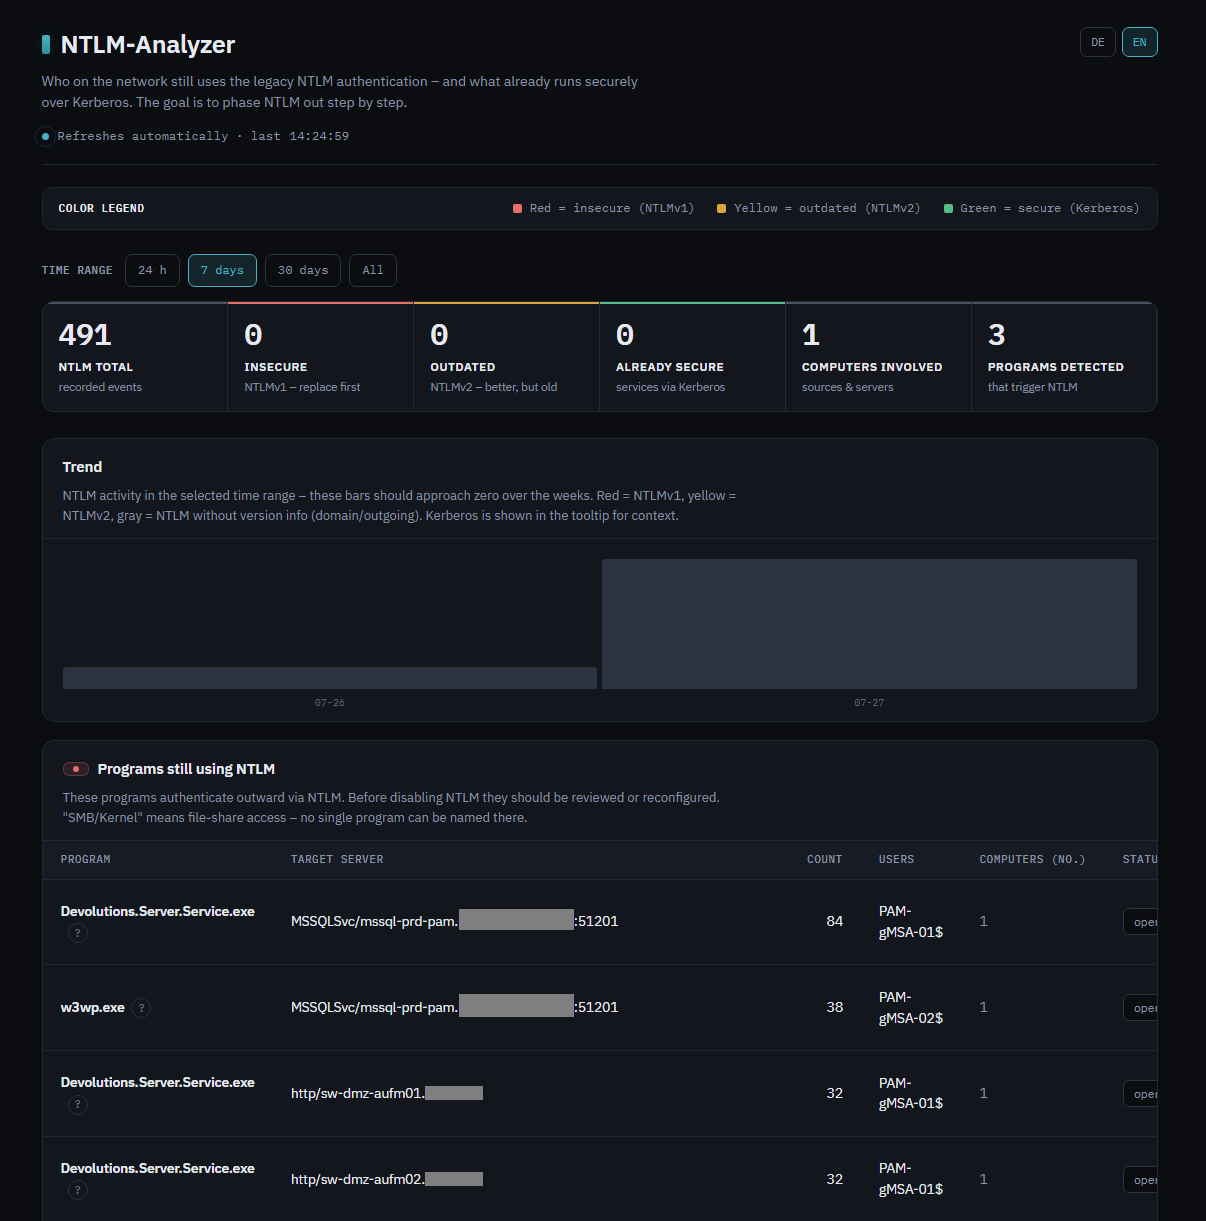
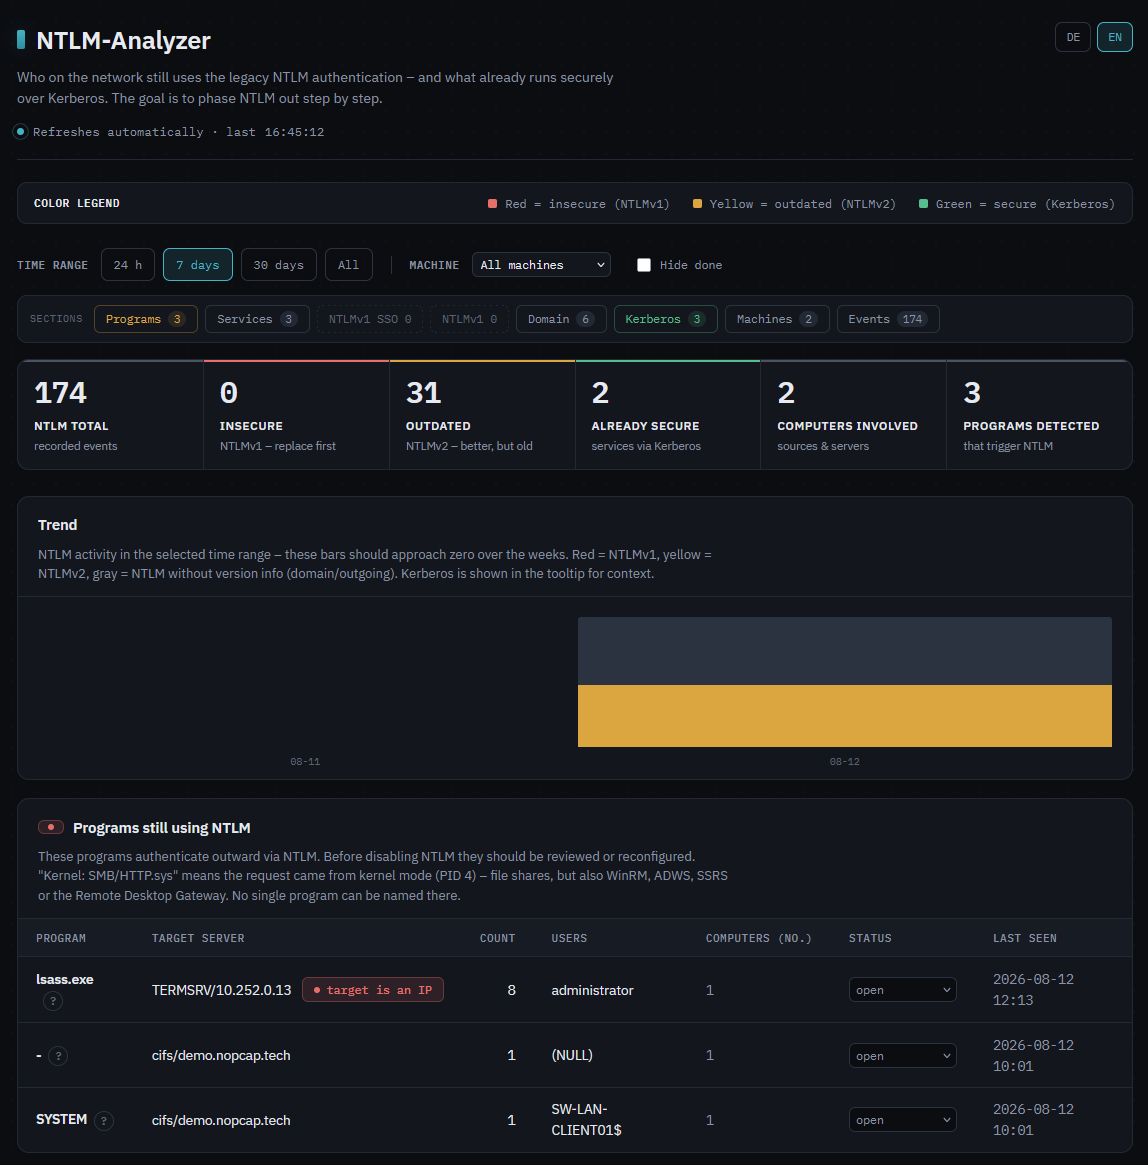
Add incoming NTLM (8002/8003), DC events 8005/8006, Oct 2026 readiness, section nav; bump to 1.3.0

diff --git a/ntlm-collector.py b/ntlm-collector.py
@@ -110,6 +110,24 @@ CREATE TABLE IF NOT EXISTS agents (
 );
 """
 
+def normalize_process(p):
+    """Vereinheitlicht Prozessnamen fuers Gruppieren: verschiedene Event-Quellen
+    liefern denselben Prozess mal mit, mal ohne Endung ("lsass" aus 8001,
+    "lsass.exe" aus 4020) - das ergab doppelte Zeilen in der Programmliste.
+    Konservativ: Klammer-Labels ("(Kernel: SMB/HTTP.sys)", "(PID 4)"), Werte
+    mit Punkt (haben schon eine Endung) und Platzhalter bleiben unangetastet."""
+    if not p:
+        return p
+    v = p.strip()
+    if not v or v == "-" or v.startswith("(") or "." in v:
+        return p
+    # Pseudo-Namen sind Konten, keine Programme ("SYSTEM" aus 8002-Loopback);
+    # echte Prozessnamen ohne Endung enthalten auch nie Leerzeichen.
+    if " " in v or v.lower() in ("system", "anonymous logon"):
+        return p
+    return v + ".exe"
+
+
 FIELDS = ("record_id", "log", "event_id", "kind", "event_time", "user",
           "domain", "ntlm_version", "process", "target_server",
           "workstation", "ip", "logon_type", "enc_type", "auth_method",
@@ -126,6 +144,17 @@ def init_db(path):
     for col in ("lm_level", "block_v1sso", "cred_guard"):
         if have_a and col not in have_a:
             conn.execute(f"ALTER TABLE agents ADD COLUMN {col} TEXT")
+    # Bestandsdaten: Prozessnamen ohne Endung angleichen (einmalig wirksam,
+    # danach findet das WHERE nichts mehr). Dieselben Regeln wie beim Ingest.
+    conn.execute(
+        "UPDATE events SET process = process || '.exe' "
+        "WHERE process IS NOT NULL AND TRIM(process) != '' AND process != '-' "
+        "AND process NOT LIKE '(%' AND process NOT LIKE '%.%' "
+        "AND process NOT LIKE '% %' AND LOWER(process) != 'system'")
+    # Rueckbau: eine fruehere Version dieser Migration hat den Pseudo-Namen
+    # SYSTEM faelschlich zu SYSTEM.exe gemacht - es gibt keinen solchen Prozess.
+    conn.execute("UPDATE events SET process = substr(process, 1, length(process)-4) "
+                 "WHERE LOWER(process) = 'system.exe'")
     for col in ("enc_type", "auth_method", "reason"):
         if col not in have:
             conn.execute(f"ALTER TABLE events ADD COLUMN {col} TEXT")
@@ -400,7 +429,7 @@ class Handler(BaseHTTPRequestHandler):
                 e.get("user"),
                 e.get("domain"),
                 e.get("ntlm_version"),
-                e.get("process"),
+                normalize_process(e.get("process")),
                 e.get("target_server"),
                 e.get("workstation"),
                 e.get("ip"),
@@ -762,7 +791,8 @@ DASHBOARD_HTML = r"""<!DOCTYPE html>
   .num-cell{text-align:right;font-family:var(--mono);font-variant-numeric:tabular-nums;color:var(--ink)}
   .empty{padding:30px 18px;text-align:center;color:var(--faint);font-size:13px}
 
-  .badge.b-inline{margin-left:12px;padding:3px 11px;gap:7px;vertical-align:middle}
+  .tgtwrap{display:inline-flex;align-items:center;gap:10px;white-space:nowrap}
+  .badge.b-inline{padding:3px 11px;gap:7px}
   .badge{display:inline-flex;align-items:center;gap:6px;padding:3px 9px;border-radius:6px;
     font-size:11.5px;font-weight:500;font-family:var(--mono);letter-spacing:.01em;
     white-space:nowrap;border:1px solid transparent;line-height:1.45}
@@ -1566,14 +1596,20 @@ async function load(){
   // A target given as an IP address is the single most common reason Kerberos
   // is skipped: it needs a name to look up an SPN. Works on any Windows
   // version - unlike the reason field, which only the 40xx events provide.
+  // Target + badge share a flex wrapper: side by side on one line, and when
+  // the cell is too narrow the badge wraps cleanly left-aligned underneath
+  // instead of dangling indented.
   const ipBadge = tgt => targetIsIp(tgt)
     ? '<span class="badge b-bad b-inline" title="'+esc(t('tt_ip'))+'"><span class="d"></span>'+t('b_ip')+'</span>'
     : '';
+  const tgtCell = tgt => targetIsIp(tgt)
+    ? '<span class="tgtwrap"><span>'+esc(tgt)+'</span>'+ipBadge(tgt)+'</span>'
+    : esc(tgt);
 
   $('#blockers').innerHTML = (d.blockers&&d.blockers.length)
     ? d.blockers.map(b=>`<tr class="${b.st==='erledigt'?'row-done':''}">
         <td class="strong">${esc(b.process)}${hintBtn(b.key)}</td>
-        <td>${esc(b.target)}${ipBadge(b.target)}</td>
+        <td>${tgtCell(b.target)}</td>
         <td class="num-cell">${b.n}</td>
         <td>${userList(b.who)}</td>
         <td class="soft">${b.sources}</td>
@@ -1584,7 +1620,7 @@ async function load(){
   $('#domain').innerHTML = (d.domain&&d.domain.length)
     ? d.domain.map(x=>`<tr class="${x.st==='erledigt'?'row-done':''}">
         <td class="strong">${esc(x.workstation)}${hintBtn(x.key)}</td>
-        <td>${esc(x.target)}${ipBadge(x.target)}</td>
+        <td>${tgtCell(x.target)}</td>
         <td>${userList(x.who)}</td>
         <td class="num-cell">${x.n}</td>
         <td>${stSel(x.key,x.st)}${againBadge(x)}</td>

diff --git a/README.md b/README.md
@@ -127,13 +127,46 @@ Watermarks are tracked per source and purpose, so only new events are transferre
 
 ## Screenshots
 
-![NTLM-Analyzer dashboard](screenshots/dashboard_1.PNG)
+### Overview: metrics, trend, and the programs to fix
 
-*The dashboard: key metrics, the NTLM-over-time trend, and who still authenticates over NTLM.*
+The top of the dashboard. Global filters (time range, machine, hide-done) sit
+above a sticky section bar whose counters show at a glance where findings exist —
+greyed-out chips mean "checked, nothing there". The metric cards separate
+**insecure** (NTLMv1) from **outdated** (NTLMv2), and the *Programs still using
+NTLM* list is the actual shutdown-blocker worklist. Note the red
+**target is an IP** badge: Kerberos needs a name with an SPN, so an IP target
+can never be anything but NTLM.
 
-![Machines & auditing status](screenshots/dashboard_2.PNG)
+![Overview with metrics, trend and the outgoing programs list](screenshots/dashboard_1.png)
 
-*Agent health: which machines report in, their heartbeat, and whether the required auditing is enabled on each.*
+### Both directions: who goes out, which services accept
+
+*Who uses NTLM – and where to* comes from the domain controller and is the most
+reliable overall view, even when no program name can be determined.
+*Services accepting NTLM* is the opposite direction — the local service that
+**accepts** incoming NTLM. That section only appears once the
+*Audit Incoming NTLM Traffic* policy is active.
+
+![Domain-wide NTLM usage and the services accepting incoming NTLM](screenshots/dashboard_2.png)
+
+### The safe side, and machine readiness
+
+What already runs over Kerberos, shown for contrast rather than as a to-do.
+Below it, the machine list: heartbeat, which auditing is enabled, each machine's
+**NTLM level** (`LmCompatibilityLevel`; 5 = NTLMv2 only) and the **Oct 2026**
+column — machines with Credential Guard are exempt from the `BlockNtlmv1SSO`
+default flip. The yellow line above the table warns while fewer than 14 days of
+data exist, because an empty findings list means little that early.
+
+![Kerberos services and accounts, plus the machine and auditing status](screenshots/dashboard_3.png)
+
+### Event list with per-event detail
+
+Every collected event, filterable by kind, NTLM version, account type (people vs.
+computers) and free-text search, exportable as CSV. Expanding a row shows the raw
+field values as Windows reported them.
+
+![Recent events with an expanded event detail view](screenshots/dashboard_4.png)
 
 ---
 
